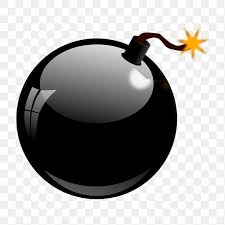
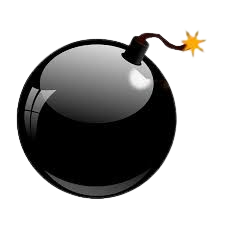
fixes probably not working

diff --git a/Main.java b/Main.java
@@ -41,6 +41,9 @@ public class Main {
         Scanner in = new Scanner(System.in);  // scanner for all user input   (scanner is already defined here and we are borrowing it for the other methods, if i define scanner again in another method the code with get condused)
         boolean play = true;                  // loop control for replaying game
 
+        // load any saved scores from file before the first game
+        loadLeaderboard();
+
         while (play) {                        // repeat until player quits   
             openingscreen();                  // display intro text    (scan)
             getname(in);                      // ask player name
@@ -349,6 +352,15 @@ public class Main {
         }
 
         System.out.println("wolfy was at row " + wolfrow + " col " + wolfcol);
+
+        // simple scoring + leaderboard update
+        int score = calculateScore(win);
+        System.out.println("your score: " + score);
+
+        updateLeaderboard(name, score);
+        saveLeaderboard();
+        showLeaderboard();
+
         System.out.println("================================");
         System.out.println();
     }
@@ -366,52 +378,129 @@ public class Main {
         return s.charAt(0) == 'y';              // true if yes
     }
 
-    // leaderboard methods (skeletons - fill in later)
+    // leaderboard methods - simple but working
     public static int calculateScore(boolean win) {
-        // this will work out a numeric score based on:
-        // - did the player win or lose (win = higher score)
-        // - how many steps they used (fewer steps = better)
-        // - maybe difficulty (hard gives bonus points)
-        // for now we just return 0 so the game still runs
-        return 0;
+        // base score depends on win/lose
+        if (!win) {
+            return 0;
+        }
+
+        int base = 1000;           // starting points
+        int stepPenalty = steps * 5;   // lose 5 points per step
+
+        int difficultyBonus = 0;
+        if ("medium".equals(diffname)) {
+            difficultyBonus = 100;
+        } else if ("hard".equals(diffname)) {
+            difficultyBonus = 250;
+        }
+
+        int score = base + difficultyBonus - stepPenalty;
+        if (score < 0) score = 0;
+        return score;
     }
 
     public static void updateLeaderboard(String playerName, int score) {
-        // this will eventually:
-        // 1. insert (playerName, score) into bestnames/bestscores arrays
-        // 2. keep only the top 5 scores (highest first)
-        // 3. call saveLeaderboard() so scores are written to a file
-        // no code yet so the teacher can see the plan without full IO
+        if (score <= 0) return;  // dont store zero or negative scores
+
+        // find insert position (higher score is better)
+        int pos = -1;
+        for (int i = 0; i < bestscores.length; i++) {
+            if (score > bestscores[i]) {
+                pos = i;
+                break;
+            }
+        }
+
+        if (pos == -1) return; // not good enough for top 5
+
+        // shift lower scores down
+        for (int i = bestscores.length - 1; i > pos; i--) {
+            bestscores[i] = bestscores[i - 1];
+            bestnames[i] = bestnames[i - 1];
+        }
+
+        // insert new score
+        bestscores[pos] = score;
+        bestnames[pos] = playerName;
     }
 
     public static void showLeaderboard() {
-        // this will display the top scores
-        // console version idea:
-        //   loop over bestscores and print position, name, and score
-        // GUI version idea:
-        //   show a JOptionPane with a formatted string of the top 5
+        System.out.println("----- leaderboard (top 5) -----");
+        for (int i = 0; i < bestscores.length; i++) {
+            if (bestscores[i] > 0 && bestnames[i] != null) {
+                System.out.println((i + 1) + ". " + bestnames[i] + " - " + bestscores[i]);
+            }
+        }
+        System.out.println("--------------------------------");
     }
 
     public static void loadLeaderboard() {
-        // later this will read scores from a text file, for example:
-        //   File file = new File("util/leaderboard.txt");
-        //   use BufferedReader / Scanner to read each line "name,score"
-        //   fill bestnames[i] and bestscores[i] from the data
-        // method kept empty for now on purpose
+        // start with empty scores
+        for (int i = 0; i < bestscores.length; i++) {
+            bestscores[i] = 0;
+            bestnames[i] = null;
+        }
+
+        File file = new File("util/leaderboard.txt");
+        if (!file.exists()) {
+            return; // nothing to load yet
+        }
+
+        Scanner in = null;
+        try {
+            in = new Scanner(file);
+            int index = 0;
+            while (in.hasNextLine() && index < bestscores.length) {
+                String line = in.nextLine().trim();
+                if (line.length() == 0) continue;
+
+                int comma = line.lastIndexOf(',');
+                if (comma == -1) continue;   // bad line, skip
+
+                String player = line.substring(0, comma);
+                String scoreText = line.substring(comma + 1);
+
+                int s;
+                try {
+                    s = Integer.parseInt(scoreText.trim());
+                } catch (NumberFormatException e) {
+                    continue;               // skip if score is not a number
+                }
+
+                bestnames[index] = player;
+                bestscores[index] = s;
+                index++;
+            }
+        } catch (IOException e) {
+            // ignore file errors for now
+        } finally {
+            if (in != null) in.close();
+        }
     }
 
     public static void saveLeaderboard() {
-        // later this will save scores to a text file, for example:
-        //   File file = new File("util/leaderboard.txt");
-        //   use PrintWriter or FileWriter to write lines "name,score"
-        //   loop through bestnames/bestscores and write the top 5
-        // body left blank so IO can be finished later
+        File file = new File("util/leaderboard.txt");
+        PrintWriter out = null;
+
+        try {
+            out = new PrintWriter(file);
+            for (int i = 0; i < bestscores.length; i++) {
+                if (bestscores[i] > 0 && bestnames[i] != null) {
+                    out.println(bestnames[i] + "," + bestscores[i]);
+                }
+            }
+        } catch (IOException e) {
+            // ignore write errors for now
+        } finally {
+            if (out != null) out.close();
+        }
     }
 }
 
 // simple GUI version of rescue wolfy using buttons and a drawing panel
-// run this class with: java RescueWolfyGUI (after compiling Main.java)
-class RescueWolfyGUI extends JFrame implements ActionListener {
+// run this class with: java GuiWolfy (after compiling Main.java)
+class GuiWolfy extends JFrame implements ActionListener {
 
     private RescuePanel panel;        // draws the grid
     private JLabel infoLabel;         // shows name, difficulty, steps, moves
@@ -430,11 +519,14 @@ class RescueWolfyGUI extends JFrame implements ActionListener {
 
     private String playerName;        // stored name for GUI runs
 
-    public RescueWolfyGUI() {
-        super("Rescue Wolfy GUI");
+    public GuiWolfy() {
+        super("Rescue Wolfy!");
+
+        // load saved scores before starting GUI game
+        Main.loadLeaderboard();
 
         // ask for name using a simple dialog (like scanner but in GUI)
-        playerName = JOptionPane.showInputDialog(this, "enter your name");
+        playerName = JOptionPane.showInputDialog(this, "Please enter your name: ");
         if (playerName == null) {
             playerName = "player";
         }
@@ -600,19 +692,18 @@ class RescueWolfyGUI extends JFrame implements ActionListener {
     // small panel that draws the grid using the same data as the console version
     class RescuePanel extends JPanel {
 
-        // picture variables (you will load them yourself later)
-        Image playerPic;  // from util/player.png
-        Image wolfyPic;   // from util/wolfy.png
-        Image bombPic;    // from util/bomb.png
-        Image floorPic;   // from util/floor.png
+        // picture variables loaded from ./util
+        Image playerPic;  // util/player.png
+        Image wolfyPic;   // util/wolfy.png
+        Image bombPic;    // util/bomb.png
+        Image floorPic;   // util/grass.png (background tile)
 
-        // example of how you might load them (commented out for now):
-        // public RescuePanel() {
-        //     playerPic = new ImageIcon("util/player.png").getImage();
-        //     wolfyPic  = new ImageIcon("util/wolfy.png").getImage();
-        //     bombPic   = new ImageIcon("util/bomb.png").getImage();
-        //     floorPic  = new ImageIcon("util/floor.png").getImage();
-        // }
+        public RescuePanel() {
+            playerPic = new ImageIcon("util/player.png").getImage();
+            wolfyPic  = new ImageIcon("util/wolfy.png").getImage();
+            bombPic   = new ImageIcon("util/bomb.png").getImage();
+            floorPic  = new ImageIcon("util/grass.png").getImage();
+        }
 
         public void paintComponent(Graphics g) {
             super.paintComponent(g);
@@ -660,6 +751,6 @@ class RescueWolfyGUI extends JFrame implements ActionListener {
 
     // entry point for the GUI only
     public static void main(String[] args) {
-        new RescueWolfyGUI();
+        new GuiWolfy();
     }
 }

diff --git a/readme.md b/readme.md
@@ -1,7 +1,13 @@
 ** For later: **
 
-- need to fix the init game, and delete the main class as its only text based (making it useless)
+- main class cannot be simply removed and is still needed as a standalone
 
-- add in all the images, and maybe try to add in a explosion sound if possible
+- make sure that the io gets created and has a better scoring system
 
-- finish making the scoring systems using java.io.*, the methods are already there too
+- make a enter a number to select difficulty 
+
+- explosion sound maybe/effect
+
+- possibly need to fix scoring systems but bombs are not showing up properly
+
+- maybe instead let wasd work aswell, and have like a move tracker on the side etc